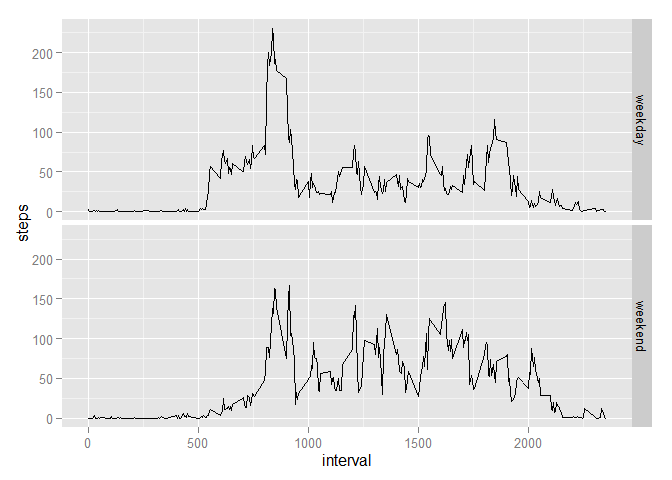
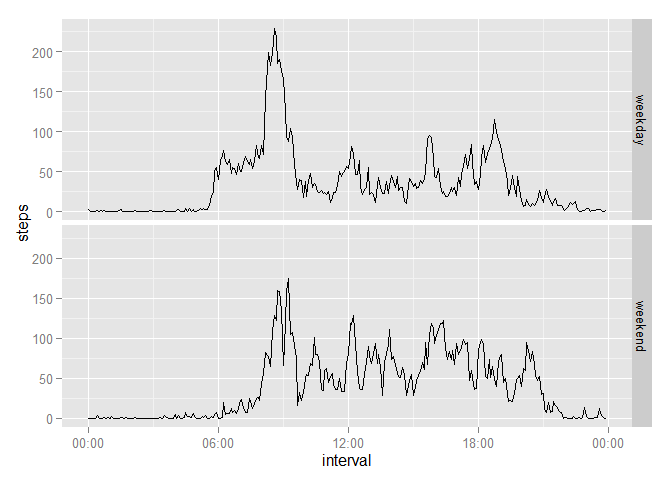
Submiting 1st final version

diff --git a/PA1_template.html b/PA1_template.html
@@ -145,25 +145,31 @@ median_value&lt;-median(report_data$total_steps)
 mean_value&lt;-mean(report_data$total_steps)</code></pre>
 <p>The <strong>median</strong> value is <strong>10766.19</strong>.<br />The <strong>mean</strong> value is <strong>10766.19</strong>.</p>
 <p>The median became the mean value. This means that the previous median had less occurrences that the number of missing days and hence, the change.</p>
-<p>As per the histogram, there was no significant change.</p>
+<p>As per the histogram, there was no significant changes.</p>
 </div>
 <div id="are-there-differences-in-activity-patterns-between-weekdays-and-weekends" class="section level2">
 <h2>Are there differences in activity patterns between weekdays and weekends?</h2>
-<pre class="r"><code>library(ggplot2)
+<p>In order to understand if a given day is weekday or weekend, we will use the boolean function is.weekend (from chron library) to assign the proper value to a new column in a dataframe</p>
+<pre class="r"><code>library(chron)
 library(lubridate)
 
+#start by assuming that everyday is weekday
 df_new_activity$weekday&lt;-&quot;weekday&quot;
-df_new_activity$weekday[weekdays(ymd(df_new_activity$date))==&quot;Saturday&quot;]&lt;- &quot;weekend&quot;
-df_new_activity$weekday[weekdays(ymd(df_new_activity$date))==&quot;Sunday&quot;]&lt;- &quot;weekend&quot;
+#update the column value to weekend where the date is TRUE on the is.weekend test
+df_new_activity$weekday[is.weekend(ymd(df_activity_complete$date))==TRUE]&lt;- &quot;weekend&quot;
 
-
+#calculate data to report
 report_data&lt;-sqldf(&quot;select weekday, interval, avg(steps) steps from df_new_activity group by weekday, interval&quot;)
 
+#converting x axis to time
+report_data$interval&lt;-as.POSIXct(formatC(report_data$interval, width=4, 
+                                         flag=&quot;0&quot;), 
+                                 format = '%H%M')
 
-
-qplot(data=report_data, interval, steps, facets = weekday~., geom=&quot;line&quot;)</code></pre>
[1 lines of base64/hex data omitted]
-<p>There are no morning walks on weekends.</p>
+#plot data
+qplot(data=report_data, interval, steps, facets = weekday~., geom=&quot;line&quot;) +
+    scale_x_datetime(labels = date_format(&quot;%H:%M&quot;))</code></pre>
[1 lines of base64/hex data omitted]
 </div>
 
 

diff --git a/PA1_template.md b/PA1_template.md
@@ -156,30 +156,35 @@ The **mean** value is **10766.19**.
 
 The median became the mean value. This means that the previous median had less occurrences that the number of missing days and hence, the change.
 
-As per the histogram, there was no significant change.
+As per the histogram, there was no significant changes.
 
 
 
 ## Are there differences in activity patterns between weekdays and weekends?
 
+In order to understand if a given day is weekday or weekend, we will use the boolean function is.weekend (from chron library) to assign the proper value to a new column in a dataframe
 
 
 ```r
-library(ggplot2)
+library(chron)
 library(lubridate)
 
+#start by assuming that everyday is weekday
 df_new_activity$weekday<-"weekday"
-df_new_activity$weekday[weekdays(ymd(df_new_activity$date))=="Saturday"]<- "weekend"
-df_new_activity$weekday[weekdays(ymd(df_new_activity$date))=="Sunday"]<- "weekend"
+#update the column value to weekend where the date is TRUE on the is.weekend test
+df_new_activity$weekday[is.weekend(ymd(df_activity_complete$date))==TRUE]<- "weekend"
 
-
+#calculate data to report
 report_data<-sqldf("select weekday, interval, avg(steps) steps from df_new_activity group by weekday, interval")
 
+#converting x axis to time
+report_data$interval<-as.POSIXct(formatC(report_data$interval, width=4, 
+                                         flag="0"), 
+                                 format = '%H%M')
 
-
-qplot(data=report_data, interval, steps, facets = weekday~., geom="line")
+#plot data
+qplot(data=report_data, interval, steps, facets = weekday~., geom="line") +
+    scale_x_datetime(labels = date_format("%H:%M"))
 ```
 
 ![](PA1_template_files/figure-html/unnamed-chunk-9-1.png) 
-
-There are no morning walks on weekends.
